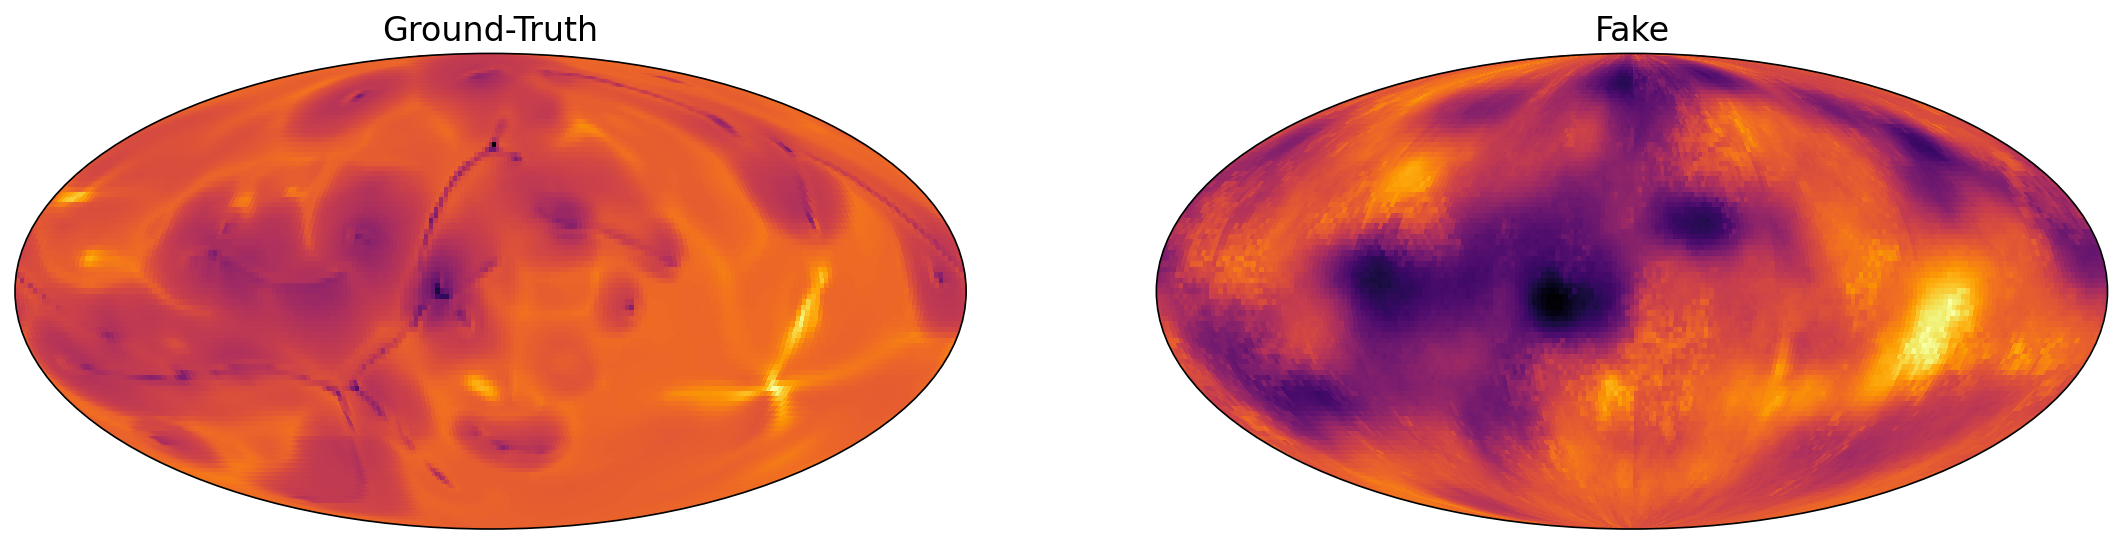
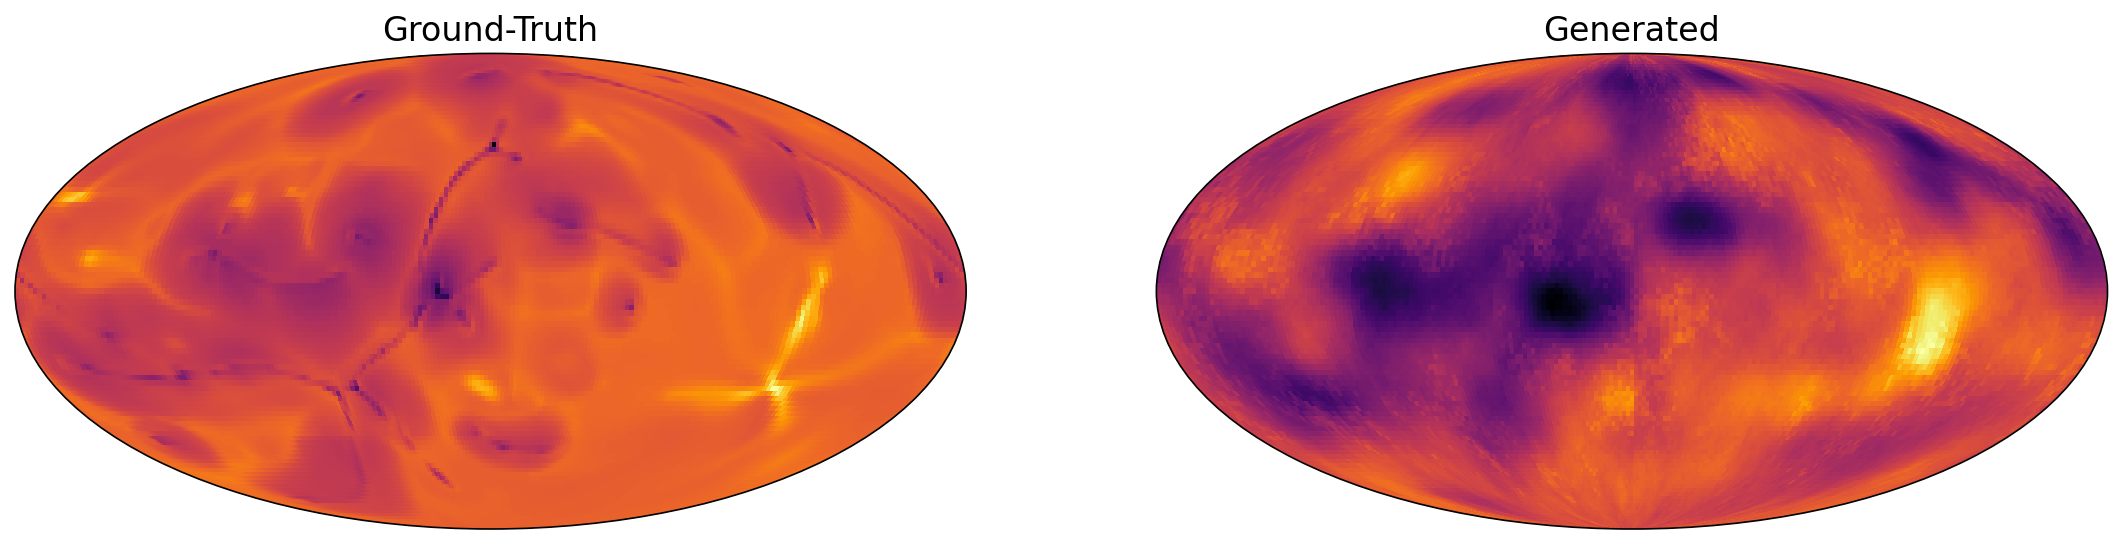
update project org in README

diff --git a/src/visualization/visualize_results.py b/src/visualization/visualize_results.py
@@ -118,7 +118,7 @@ def create_truth_map(
     ax[0].get_yaxis().set_visible(False)
     ax[0].set_aspect(1)
 
-    ax[1].set_title("Fake", fontsize=16)
+    ax[1].set_title("Generated", fontsize=16)
     ax[1].pcolormesh(fake[0, v, r_index, :, :], cmap=color_scheme)
     ax[1].get_xaxis().set_visible(False)
     ax[1].get_yaxis().set_visible(False)
@@ -144,7 +144,7 @@ def create_truth_map(
     ax[0].get_yaxis().set_visible(False)
     # ax[0].set_aspect(1)
 
-    ax[1].set_title("Fake", fontsize=16)
+    ax[1].set_title("Generated", fontsize=16)
     ax[1].pcolormesh(Lon, Lat, fake[0, 0, r_index, :, :], cmap=color_scheme)
     ax[1].get_xaxis().set_visible(False)
     ax[1].get_yaxis().set_visible(False)

diff --git a/README.md b/README.md
@@ -3,7 +3,7 @@ EarthGAN - Earth Mantle Surrogate Modeling
 
 > Can a surrogate model of the [Earth’s Mantle Convection data set](https://scivis2021.netlify.app/data/) be built such that it can be readily run in a web-browser and produce high-fidelity    results? We're trying to do just that through the use of a generative adversarial network -- we call ours EarthGAN. We are in active research.
 
-See how EarthGAN currently works! Open up the Colab notebook and generate some "fake" data: [![Open In Colab](https://colab.research.google.com/assets/colab-badge.svg)](https://colab.research.google.com/github/tvhahn/EarthGAN/blob/master/notebooks/3.0_generate_fake_example.ipynb)
+See how EarthGAN currently works! Open up the Colab notebook and create results from the preliminary generator: [![Open In Colab](https://colab.research.google.com/assets/colab-badge.svg)](https://colab.research.google.com/github/tvhahn/EarthGAN/blob/master/notebooks/3.0_generate_fake_example.ipynb)
 
 
 
@@ -82,19 +82,22 @@ Project Organization
     │   └── raw            <- Original data from Earth Mantle Convection simulation.
     │
     ├── models             <- Trained and serialized models, model predictions, or model summaries
-    │   └── figures        <- Generated graphics and figures to be used in reporting
+    │   └── interim        <- Interim models and summaries
+    │   └── final          <- Final, cononical models
     │
-    ├── notebooks          <- Jupyter notebooks. Naming convention is a number (for ordering),
-    │                         the creator's initials, and a short `-` delimited description, e.g.
-    │                         `1.0-jqp-initial-data-exploration`.
+    ├── notebooks          <- Jupyter notebooks. Generally used for explaining various components
+    │   │                     of the code base.
+    │   └── scratch        <- Rough-draft notebooks, of questionable quality. Be warned!
     │
     ├── references         <- Data dictionaries, manuals, and all other explanatory materials.
     │
     ├── reports            <- Generated analysis as HTML, PDF, LaTeX, etc.
     │   └── figures        <- Generated graphics and figures to be used in reporting
     │
-    ├── requirements.txt   <- The requirements file for reproducing the analysis environment, e.g.
-    │                         generated with `pip freeze > requirements.txt`
+    ├── requirements.txt   <- Recommend using `make create_environment`. However, can use this file
+    │                         for to recreate environment with pip
+    ├── envearth.yml       <- Used to create conda environment. Use `make create_environment` when
+    │                         on local compute				
     │
     ├── setup.py           <- makes project pip installable (pip install -e .) so src can be imported
     ├── src                <- Source code for use in this project.
